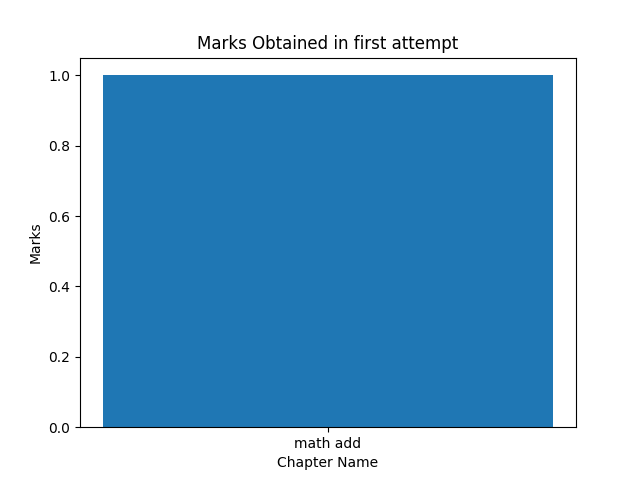
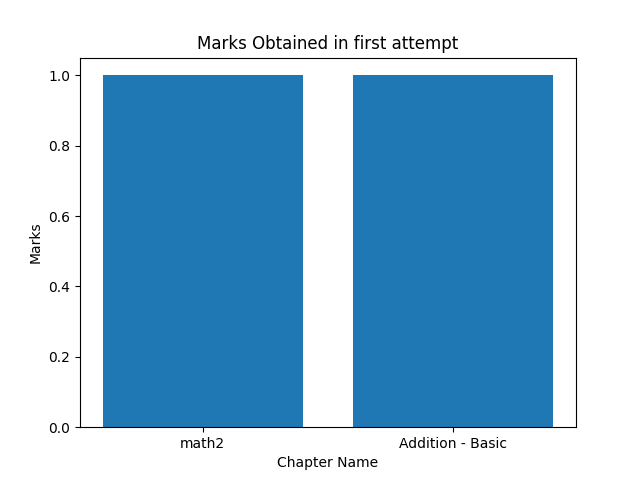
added 1 chart in admin side summary

Changed region(s): [[0.4688, 0.1562, 0.5625, 0.9375], [0.625, 0.9062, 0.7812, 0.9375], [0.2812, 0.9062, 0.3438, 0.9375]]

diff --git a/templates/adminsummary.html b/templates/adminsummary.html
@@ -1,7 +1,7 @@
 <!DOCTYPE html>
 <html lang="en">
 <head>
-    <title>User Data</title>
+    <title>Summary</title>
     <link rel="stylesheet" href="/static/style.css">
     <link href="https://cdn.jsdelivr.net/npm/bootstrap@5.3.3/dist/css/bootstrap.min.css" rel="stylesheet" integrity="sha384-QWTKZyjpPEjISv5WaRU9OFeRpok6YctnYmDr5pNlyT2bRjXh0JMhjY6hW+ALEwIH" crossorigin="anonymous">
 </head>
@@ -31,48 +31,28 @@
                     <a class="nav-link active" aria-current="page" href="/bin">Bin</a>
                   </li>
                   <li class="nav-item">
-                    <a class="nav-link active" aria-current="page" href="/userlogin">Logout</a>
+                    <a class="nav-link active" aria-current="page" href="/">Logout</a>
                   </li>
                 </ul>
-                <form class="d-flex" role="search">
-                  <input class="form-control me-2" type="search" placeholder="Search" aria-label="Search" style="background-color: #ece6e3;">
+                <form class="d-flex" action="/adminsearch/ad">
+                  <input class="form-control me-2" type="search" placeholder="Search" aria-label="Search" name="searchword" style="background-color: #ece6e3;">
                   <button class="btn btn-outline-success" type="submit">Search</button>
                 </form>
               </div>
               <span>&ensp; Welcome Admin</span>
             </div>
           </nav>
-          <h2 style="text-align: center;margin-top: 5px;">{{user.fullname}}'s Data</h2>
-          <div class="table-div" id="canvas">
-            <table class="table table-hover" id="table-body">
-              <thead>
-                <tr>
-                  <th scope="col">Name</th>
-                  <th scope ="col">Chapter Name</th>
-                  <th scope="col">No. of Questions</th>
-                  <th scope="col">Date</th>
-                  <th scope="col">Time Taken</th>
-                  <th scope="col">Score</th>
-                  <th scope="col">Action</th>
-                </tr>
-              </thead>
-              <tbody>
-                {% for s in score %}
-                  <tr>
-                    <td>{{s.quiz_id}}</td>
-                    <td>{{s.chapter_name}}</td>
-                    <td>{{s.noq}}</td>
-                    <td>{{s.qdate}}</td>
-                    <td>{{s.time_taken}}</td>
-                    <td>{{s.total_score}}/{{s.noq}}</td>
-                    <td>
-                      <a href='/view_user_answers/{{ s.quiz_id }}/{{ user.fullname }}/{{s.id}}' class="btn btn-primary">View User Answers</a>
-                    </td>
-                  </tr>
-                {% endfor %}
-              </tbody>
-            </table>
-          </div>
+          <h2 style="text-align: center;margin-top: 5px;">Summary</h2>
+          {% if msg %}
+            <div class="alert alert-primary text-center">
+              {{ msg }}
+            </div>
+          {% else %}
+            <div class="table-div" id="canvas">
+              <div class="text-center">
+                <img src="/static/adimg1.png" alt="user summary">
+            </div>
+          {% endif %}
         </div>
     </div>
 </body>

diff --git a/templates/challengeque.html b/templates/challengeque.html
@@ -1,7 +1,7 @@
 <!DOCTYPE html>
 <html lang="en">
 <head>
-    <title>Admin Dashboard</title>
+    <title>Challenge</title>
     <link rel="stylesheet" href="/static/style.css">
     <link href="https://cdn.jsdelivr.net/npm/bootstrap@5.3.3/dist/css/bootstrap.min.css" rel="stylesheet" integrity="sha384-QWTKZyjpPEjISv5WaRU9OFeRpok6YctnYmDr5pNlyT2bRjXh0JMhjY6hW+ALEwIH" crossorigin="anonymous">
 </head>
@@ -22,7 +22,7 @@
                         <a class="nav-link active" aria-current="page" href="/challengeque">Challenge</a>
                       </li>
                       <li class="nav-item">
-                        <a class="nav-link active" aria-current="page" href="#">Summary</a>
+                        <a class="nav-link active" aria-current="page" href="/adminsummary">Summary</a>
                       </li>
                       <li class="nav-item">
                         <a class="nav-link active" aria-current="page" href="/usersdata">Users</a>

diff --git a/templates/userdata.html b/templates/userdata.html
@@ -1,7 +1,7 @@
 <!DOCTYPE html>
 <html lang="en">
 <head>
-    <title>Admin Dashboard</title>
+    <title>User Data</title>
     <link rel="stylesheet" href="/static/style.css">
     <link href="https://cdn.jsdelivr.net/npm/bootstrap@5.3.3/dist/css/bootstrap.min.css" rel="stylesheet" integrity="sha384-QWTKZyjpPEjISv5WaRU9OFeRpok6YctnYmDr5pNlyT2bRjXh0JMhjY6hW+ALEwIH" crossorigin="anonymous">
 </head>
@@ -22,7 +22,7 @@
                         <a class="nav-link active" aria-current="page" href="/challengeque">Challenge</a>
                       </li>
                       <li class="nav-item">
-                        <a class="nav-link active" aria-current="page" href="#">Summary</a>
+                        <a class="nav-link active" aria-current="page" href="/adminsummary">Summary</a>
                       </li>
                       <li class="nav-item">
                         <a class="nav-link active" aria-current="page" href="/usersdata">Users</a>

diff --git a/templates/binusers.html b/templates/binusers.html
@@ -1,7 +1,7 @@
 <!DOCTYPE html>
 <html lang="en">
 <head>
-    <title>Admin Dashboard</title>
+    <title>Bin</title>
     <link rel="stylesheet" href="/static/style.css">
     <link href="https://cdn.jsdelivr.net/npm/bootstrap@5.3.3/dist/css/bootstrap.min.css" rel="stylesheet" integrity="sha384-QWTKZyjpPEjISv5WaRU9OFeRpok6YctnYmDr5pNlyT2bRjXh0JMhjY6hW+ALEwIH" crossorigin="anonymous">
 </head>
@@ -22,7 +22,7 @@
                         <a class="nav-link active" aria-current="page" href="/challengeque">Challenge</a>
                       </li>
                       <li class="nav-item">
-                        <a class="nav-link active" aria-current="page" href="#">Summary</a>
+                        <a class="nav-link active" aria-current="page" href="/adminsummary">Summary</a>
                       </li>
                       <li class="nav-item">
                         <a class="nav-link active" aria-current="page" href="/usersdata">Users</a>

diff --git a/templates/quiz_management.html b/templates/quiz_management.html
@@ -22,7 +22,7 @@
                         <a class="nav-link active" aria-current="page" href="/challengeque">Challenge</a>
                       </li>
                       <li class="nav-item">
-                        <a class="nav-link active" aria-current="page" href="#">Summary</a>
+                        <a class="nav-link active" aria-current="page" href="/adminsummary">Summary</a>
                       </li>
                       <li class="nav-item">
                         <a class="nav-link active" aria-current="page" href="/usersdata">Users</a>

diff --git a/templates/viewch.html b/templates/viewch.html
@@ -1,7 +1,7 @@
 <!DOCTYPE html>
 <html lang="en">
 <head>
-    <title>Challenge Answer</title>
+    <title>Challenge Details</title>
     <link rel="stylesheet" href="/static/style.css">
     <link href="https://cdn.jsdelivr.net/npm/bootstrap@5.3.3/dist/css/bootstrap.min.css" rel="stylesheet" integrity="sha384-QWTKZyjpPEjISv5WaRU9OFeRpok6YctnYmDr5pNlyT2bRjXh0JMhjY6hW+ALEwIH" crossorigin="anonymous">
 </head>

diff --git a/templates/editsubject.html b/templates/editsubject.html
@@ -1,7 +1,7 @@
 <!DOCTYPE html>
 <html lang="en">
 <head>
-    <title>Edit Chapter</title>
+    <title>Edit Subject</title>
     <link rel="stylesheet" href="/static/style.css">
     <link href="https://cdn.jsdelivr.net/npm/bootstrap@5.3.3/dist/css/bootstrap.min.css" rel="stylesheet" integrity="sha384-QWTKZyjpPEjISv5WaRU9OFeRpok6YctnYmDr5pNlyT2bRjXh0JMhjY6hW+ALEwIH" crossorigin="anonymous">
 </head>

diff --git a/templates/view_user_answers.html b/templates/view_user_answers.html
@@ -1,7 +1,7 @@
 <!DOCTYPE html>
 <html lang="en">
 <head>
-    <title>Ongoing Quiz</title>
+    <title>User Answers</title>
     <link rel="stylesheet" href="/static/style.css">
     <link href="https://cdn.jsdelivr.net/npm/bootstrap@5.3.3/dist/css/bootstrap.min.css" rel="stylesheet" integrity="sha384-QWTKZyjpPEjISv5WaRU9OFeRpok6YctnYmDr5pNlyT2bRjXh0JMhjY6hW+ALEwIH" crossorigin="anonymous">
 </head>

diff --git a/templates/editquiz.html b/templates/editquiz.html
@@ -1,7 +1,7 @@
 <!DOCTYPE html>
 <html lang="en">
 <head>
-    <title>Edit Chapter</title>
+    <title>Edit Quiz</title>
     <link rel="stylesheet" href="/static/style.css">
     <link href="https://cdn.jsdelivr.net/npm/bootstrap@5.3.3/dist/css/bootstrap.min.css" rel="stylesheet" integrity="sha384-QWTKZyjpPEjISv5WaRU9OFeRpok6YctnYmDr5pNlyT2bRjXh0JMhjY6hW+ALEwIH" crossorigin="anonymous">
 </head>

diff --git a/templates/usersummary.html b/templates/usersummary.html
@@ -1,7 +1,7 @@
 <!DOCTYPE html>
 <html lang="en">
 <head>
-    <title>User Dashboard</title>
+    <title>Summary</title>
     <link rel="stylesheet" href="/static/style.css">
     <link href="https://cdn.jsdelivr.net/npm/bootstrap@5.3.3/dist/css/bootstrap.min.css" rel="stylesheet" integrity="sha384-QWTKZyjpPEjISv5WaRU9OFeRpok6YctnYmDr5pNlyT2bRjXh0JMhjY6hW+ALEwIH" crossorigin="anonymous">
 </head>

diff --git a/templates/view_answers.html b/templates/view_answers.html
@@ -1,7 +1,7 @@
 <!DOCTYPE html>
 <html lang="en">
 <head>
-    <title>Ongoing Quiz</title>
+    <title>Answers</title>
     <link rel="stylesheet" href="/static/style.css">
     <link href="https://cdn.jsdelivr.net/npm/bootstrap@5.3.3/dist/css/bootstrap.min.css" rel="stylesheet" integrity="sha384-QWTKZyjpPEjISv5WaRU9OFeRpok6YctnYmDr5pNlyT2bRjXh0JMhjY6hW+ALEwIH" crossorigin="anonymous">
 </head>

diff --git a/templates/user_viewquiz.html b/templates/user_viewquiz.html
@@ -1,7 +1,7 @@
 <!DOCTYPE html>
 <html lang="en">
 <head>
-    <title>Scores</title>
+    <title>Quiz Details</title>
     <link rel="stylesheet" href="/static/style.css">
     <link href="https://cdn.jsdelivr.net/npm/bootstrap@5.3.3/dist/css/bootstrap.min.css" rel="stylesheet" integrity="sha384-QWTKZyjpPEjISv5WaRU9OFeRpok6YctnYmDr5pNlyT2bRjXh0JMhjY6hW+ALEwIH" crossorigin="anonymous">
 </head>
